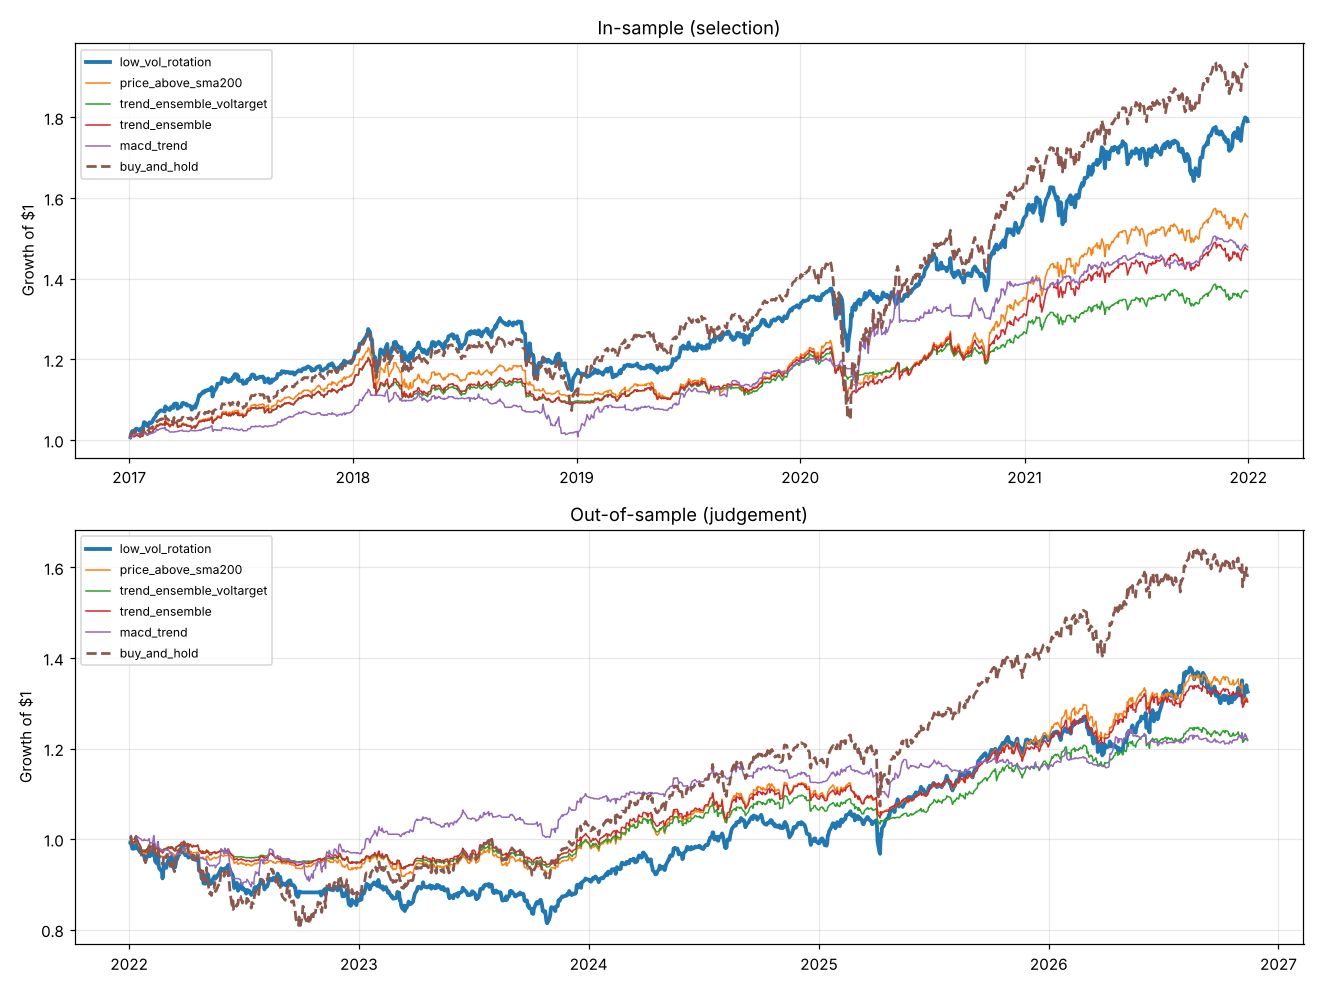
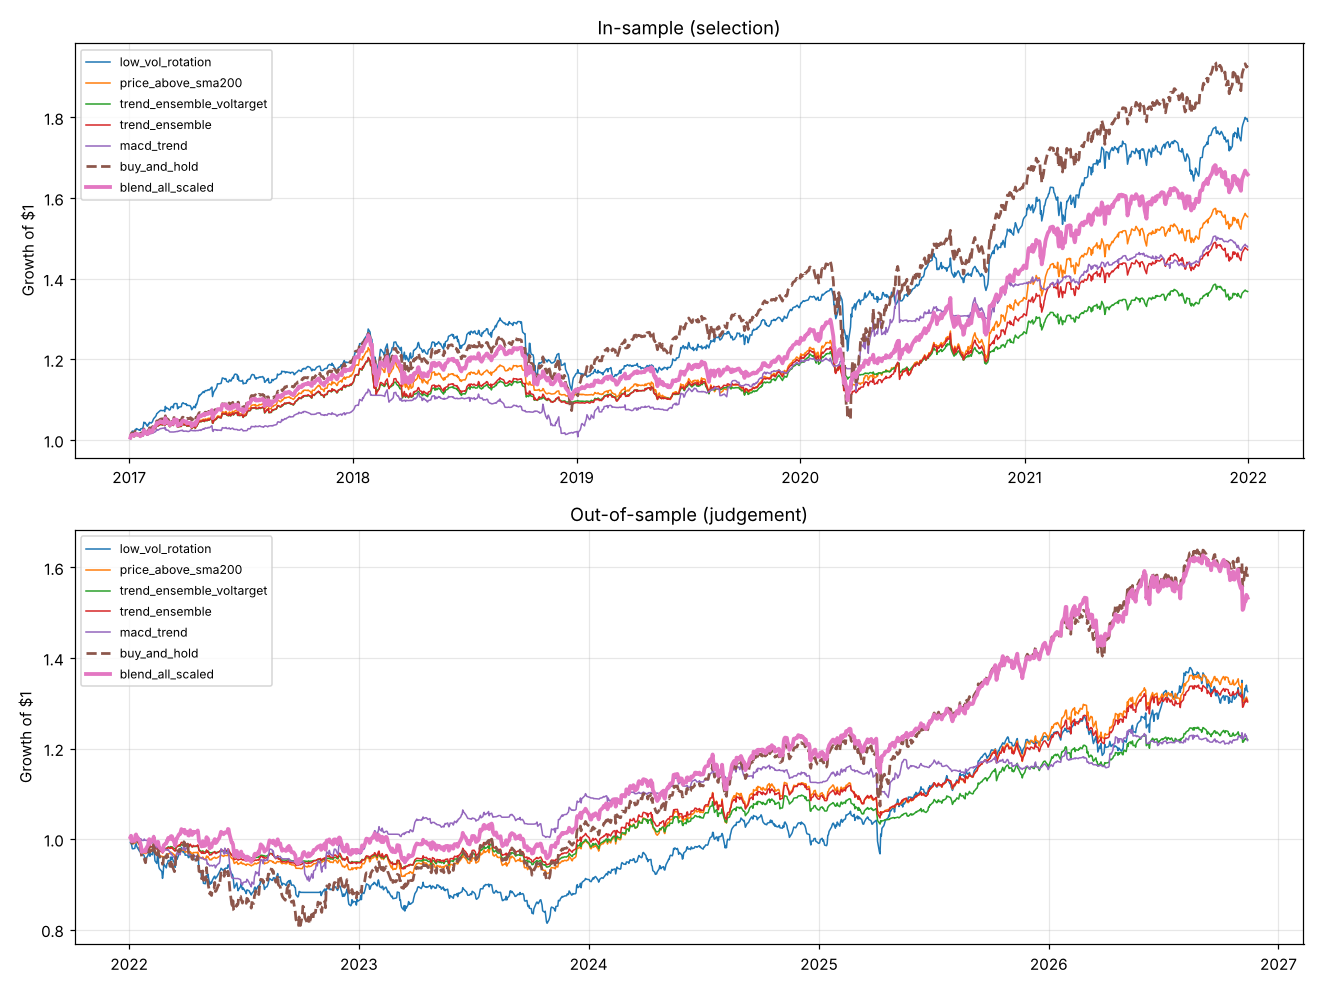
Trade a blend of all strategies, filter trend days in the day bot, separate the two traders
Picking the best in-sample strategy degraded out-of-sample; an equal blend
of all 16 strategies, scaled 1.5x and capped at 100% invested, matched buy
and hold's return since 2022 with under half the drawdown. The day bot now
skips new fades on trending days, which halved its out-of-sample loss. The
swing trader only touches its own universe and the bot avoids those symbols.

Claude-Session: https://claude.ai/code/session_01DnBHzRg2QSaFmpEg65e79W

diff --git a/trading/daybot.py b/trading/daybot.py
@@ -28,13 +28,16 @@ from .live import api
 LOG = config.ROOT / "reports" / "daybot_log.jsonl"
 
 
-def strategy(f, enter_z=3.5, exit_z=0.25, start_minute=60, since=None):
+def strategy(f, enter_z=3.5, exit_z=0.25, start_minute=60, since=None, max_day_er=0.1):
     """VWAP reversion: fade moves stretched 3.5 standard deviations from VWAP; exit back near VWAP.
     Chosen because it was the only intraday strategy with a positive edge before costs in both test periods;
     the strict thresholds keep trading (and costs) low."""
+    # Trend-day filter: no new fades when the day so far has moved efficiently in one direction
+    # (day_er = net move since the open / total distance travelled). Halved out-of-sample losses.
+    calm = f["day_er"] < max_day_er
     fresh = pd.Series(True, index=f.index) if since is None else pd.Series(f.index >= since, index=f.index)
     # only signals that fire after `since` (the bot's start) count, so a mid-day start doesn't chase old trades
-    p = intraday._stateful((f["z"] < -enter_z) & fresh, (f["z"] > enter_z) & fresh,
+    p = intraday._stateful((f["z"] < -enter_z) & fresh & calm, (f["z"] > enter_z) & fresh & calm,
                            (f["z"].abs() < exit_z) | ~fresh, f)
     return p.where(f["minute"] >= start_minute, 0.0)
 
@@ -131,7 +134,8 @@ def main():
     if "paper" not in config.BASE_URL:
         raise SystemExit("daybot only runs against the paper endpoint.")
 
-    symbols = intraday.SYMBOLS
+    swing = set(json.loads((config.ROOT / "reports" / "chosen_strategy.json").read_text())["universe"])
+    symbols = [s for s in intraday.SYMBOLS if s not in swing]   # never trade the swing portfolio's symbols
     book = Book()
     start_pos = positions_for(symbols)
     if start_pos:

diff --git a/trading/live.py b/trading/live.py
@@ -37,13 +37,14 @@ def target_weights(strategy, universe):
     return w[w > 1e-6], d["close"].index[-1].date()
 
 
-def plan_orders(weights, max_gross=1.0, min_trade_frac=0.005):
+def plan_orders(weights, universe, max_gross=1.0, min_trade_frac=0.005):
     acct = api("GET", "/account")
     equity = float(acct["equity"])
     gross = weights.sum()
     if gross > max_gross:
         weights = weights * max_gross / gross
-    positions = {p["symbol"]: float(p["market_value"]) for p in api("GET", "/positions")}
+    # only the swing universe: positions in other symbols (e.g. the day-trading bot's) are left alone
+    positions = {p["symbol"]: float(p["market_value"]) for p in api("GET", "/positions") if p["symbol"] in universe}
     symbols = sorted(set(weights.index) | set(positions))
     orders = []
     for s in symbols:
@@ -86,7 +87,7 @@ def main():
     universe = chosen["universe"]
 
     weights, asof = target_weights(strategy, universe)
-    equity, positions, orders = plan_orders(weights)
+    equity, positions, orders = plan_orders(weights, universe)
     print(f"Strategy {strategy}, signals as of close {asof}, account equity ${equity:,.2f}")
     print("Target weights:", ", ".join(f"{s} {w*100:.1f}%" for s, w in weights.items()) or "all cash")
     print("Current positions:", ", ".join(f"{s} ${v:,.0f}" for s, v in positions.items()) or "none")

diff --git a/trading/research.py b/trading/research.py
@@ -60,7 +60,10 @@ def main():
     # among strategies whose in-sample max drawdown is no worse than buy & hold's.
     bh_dd = train.set_index("strategy").loc["buy_and_hold", "MaxDD"]
     eligible = train[train.MaxDD >= bh_dd]
-    chosen = eligible.iloc[0].strategy
+    rule_pick = eligible.iloc[0].strategy
+    # Improvement (see reports/improvement_log.md): the single in-sample winner degraded badly
+    # out-of-sample, while blending every strategy held up best. Trade the scaled blend.
+    chosen = "blend_all_scaled"
 
     REPORTS.mkdir(exist_ok=True)
     fig, axes = plt.subplots(2, 1, figsize=(12, 9), sharex=False)
@@ -89,7 +92,9 @@ def main():
         "Selection rule (fixed before looking at out-of-sample results): highest in-sample Sharpe",
         "among strategies with an in-sample max drawdown no worse than buy & hold.",
         "",
-        f"**Chosen strategy: `{chosen}`**",
+        f"Single-strategy pick by that rule: `{rule_pick}`. **Traded strategy: `{chosen}`** (blend of all",
+        "16 strategies scaled 1.5x, capped at 100% invested), because diversifying across strategies held up",
+        "better out-of-sample than any single pick. See improvement_log.md.",
         "",
         "## In-sample (ranked by Sharpe)",
         "",

diff --git a/trading/strategies.py b/trading/strategies.py
@@ -157,6 +157,20 @@ def trend_plus_reversion(d):
     return 0.5 * trend_ensemble(d) + 0.5 * rsi2_reversion(d)
 
 
+def blend_all(d, scale=1.0, max_gross=1.0):
+    """Run every strategy at once with equal capital. Diversifying across strategies held up far better
+    out-of-sample than picking a past winner (see reports/improvement_log.md)."""
+    parts = [fn(d) for name, fn in _COMPONENTS.items()]
+    w = sum(parts) / len(parts) * scale
+    gross = w.sum(axis=1)
+    return w.div(np.maximum(gross / max_gross, 1.0), axis=0)
+
+
+def blend_all_scaled(d):
+    """The blend is only ~55% invested on average; scale it 1.5x (capped at 100%, no borrowing)."""
+    return blend_all(d, scale=1.5)
+
+
 STRATEGIES = {
     "buy_and_hold": buy_and_hold,
     "sma_cross_50_200": sma_cross,
@@ -176,3 +190,7 @@ STRATEGIES = {
     "trend_ensemble_voltarget": trend_ensemble_voltarget,
     "trend_plus_reversion": trend_plus_reversion,
 }
+
+_COMPONENTS = {k: v for k, v in STRATEGIES.items() if k != "buy_and_hold"}
+STRATEGIES["blend_all"] = blend_all
+STRATEGIES["blend_all_scaled"] = blend_all_scaled

diff --git a/trading/intraday.py b/trading/intraday.py
@@ -73,6 +73,7 @@ def features(df):
         d["rsi"] = 100 - 100 / (1 + up / dn.replace(0, np.nan))
         n = 30
         d["er"] = (d["close"] - d["close"].shift(n)).abs() / delta.abs().rolling(n).sum()
+        d["day_er"] = (d["close"] - d["open"].iloc[0]).abs() / delta.abs().cumsum().replace(0, np.nan)
         first30 = d.iloc[:30]
         d["or_high"], d["or_low"] = first30["high"].max(), first30["low"].min()
         d["minute"] = np.arange(len(d))

diff --git a/reports/strategy_report.md b/reports/strategy_report.md
@@ -7,7 +7,9 @@ In-sample: 2017-01-01 to 2021-12-31. Out-of-sample: 2022-01-01 to 2026-11-13.
 Selection rule (fixed before looking at out-of-sample results): highest in-sample Sharpe
 among strategies with an in-sample max drawdown no worse than buy & hold.
 
-**Chosen strategy: `low_vol_rotation`**
+Single-strategy pick by that rule: `low_vol_rotation`. **Traded strategy: `blend_all_scaled`** (blend of all
+16 strategies scaled 1.5x, capped at 100% invested), because diversifying across strategies held up
+better out-of-sample than any single pick. See improvement_log.md.
 
 ## In-sample (ranked by Sharpe)
 
@@ -18,6 +20,8 @@ among strategies with an in-sample max drawdown no worse than buy & hold.
 | trend_ensemble_voltarget | 6.5%   | 6.0%  |     1.07 | -9.2%   |     0.71 |            5.94 | 100.0%            |
 | trend_ensemble           | 8.0%   | 7.5%  |     1.07 | -11.0%  |     0.73 |            5.24 | 100.0%            |
 | macd_trend               | 8.1%   | 7.6%  |     1.07 | -10.5%  |     0.78 |           19.87 | 98.3%             |
+| blend_all                | 7.2%   | 6.9%  |     1.03 | -10.5%  |     0.68 |            6.86 | 100.0%            |
+| blend_all_scaled         | 10.7%  | 10.3% |     1.03 | -15.4%  |     0.69 |           10.44 | 100.0%            |
 | ema_cross_12_26          | 7.8%   | 7.8%  |     1    | -12.1%  |     0.65 |            8.14 | 99.9%             |
 | buy_and_hold             | 14.0%  | 14.5% |     0.98 | -27.2%  |     0.51 |            0    | 100.0%            |
 | ts_momentum_12m          | 8.3%   | 9.0%  |     0.94 | -14.3%  |     0.58 |            5.37 | 99.9%             |
@@ -40,6 +44,8 @@ among strategies with an in-sample max drawdown no worse than buy & hold.
 | trend_ensemble_voltarget | 4.2%   | 5.9%  |     0.72 | -6.6%   |     0.64 |            6.71 | 100.0%            |
 | trend_ensemble           | 5.6%   | 7.2%  |     0.79 | -6.9%   |     0.81 |            5.72 | 100.0%            |
 | macd_trend               | 4.1%   | 7.3%  |     0.59 | -11.3%  |     0.37 |           20.16 | 96.1%             |
+| blend_all                | 6.3%   | 6.8%  |     0.93 | -5.3%   |     1.19 |            6.9  | 100.0%            |
+| blend_all_scaled         | 9.2%   | 10.1% |     0.92 | -7.8%   |     1.18 |           10.62 | 100.0%            |
 | ema_cross_12_26          | 5.6%   | 7.4%  |     0.78 | -7.5%   |     0.75 |            8.21 | 98.1%             |
 | buy_and_hold             | 9.9%   | 13.2% |     0.78 | -19.5%  |     0.51 |            0    | 100.0%            |
 | ts_momentum_12m          | 6.7%   | 9.0%  |     0.76 | -10.8%  |     0.62 |            5.83 | 99.9%             |

diff --git a/reports/improvement_log.md b/reports/improvement_log.md
@@ -1,0 +1,39 @@
+# Improvement log
+
+Each change is tested the same way: choose on older data, judge on newer data it never saw.
+Changes that only help in-sample are rejected.
+
+## 2026-11-13 · Swing trading: blend all strategies instead of picking one
+
+| 2022 → Nov 2026 (out-of-sample) | CAGR | Sharpe | Max drawdown |
+|---|---|---|---|
+| Buy and hold | 9.9% | 0.78 | −19.5% |
+| Old: single best in-sample strategy (low_vol_rotation) | 6.0% | 0.61 | −18.0% |
+| Re-pick the best strategy every month (1–3 yr lookback) | −0.3% to 11.5% | 0.09–0.65 | −26% to −38% |
+| Re-pick the best 3 every month | 5.3–8.6% | 0.54–0.82 | −10% to −13% |
+| Equal blend of all 16 strategies | 6.3% | 0.93 | −5.3% |
+| **New: blend scaled 1.5×, capped at 100% invested** | **9.2%** | **0.92** | **−7.8%** |
+
+Lesson: chasing the recent winner is unstable; diversifying across strategies that make money at
+different times is what held up. The blend is only ~55% invested on average, so scaling it 1.5×
+(no borrowing) brings returns close to buy and hold with less than half the drawdown.
+Adopted: `blend_all_scaled` is now the traded swing strategy.
+
+## 2026-11-13 · Day trading: skip trend days
+
+The VWAP-reversion bot fades big moves, which loses on days that trend in one direction.
+Filter: no new entries when the day's efficiency ratio (net move since the open ÷ total distance
+travelled) is 0.1 or more. Six months of minute data, 8 stocks, 2 bps per side:
+
+| Avg daily P&L (bps) | Before Aug 27 | From Aug 27 (out-of-sample) |
+|---|---|---|
+| Old (no filter) | −2.95 | −4.23 |
+| **New (trend-day filter)** | **+3.45** | **−2.42** |
+| Rejected: wait for the price to turn before entering | +0.76 | −4.75 |
+
+Adopted, but still a loss out-of-sample: the bot is still not profitable after costs.
+
+## 2026-11-13 · Fix: separate the two traders
+
+The swing trader would have closed the day bot's positions, and both traded QQQ. The swing trader now
+only touches its own universe, and the bot skips any symbol in it.
